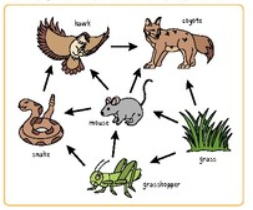
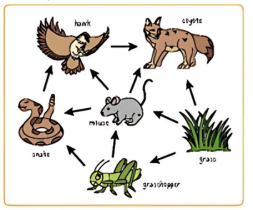
Update images in lessons and add worksheet links for Mendelian Genetics and Mitosis

diff --git a/src/pages/lessons/CellDivision/Lessons/CellDivision.jsx b/src/pages/lessons/CellDivision/Lessons/CellDivision.jsx
@@ -1,7 +1,7 @@
 import React, { useRef } from "react";
 import FloatingButton from "../../../../components/FloatingButton/FloatingButton.jsx";
 import { FaArrowRight } from "react-icons/fa";
-import cellCycle from "../../../../assets/images/cellCycle.png";
+import cellCycle from "../../../../assets/images/NewCellCycle.jpg";
 import stagesOfMitosis from "../../../../assets/pdf/stagesOfMitosis.pdf";
 import { MitosisWorksheetsLink } from "../ConstantMitosis.jsx";
 import Worksheets from "../../../../components/Worksheets/Worksheets.jsx";
@@ -86,7 +86,7 @@ const Module1 = ({ hideFloating }) => {
           <img
             src={cellCycle}
             alt="Digestion illustration"
-            className="w-full md:w-1/2 lg:w-1/3 h-auto object-contain rounded-lg shadow-md"
+            className="w-full md:w-1/2 lg:w-2/3 h-auto object-contain rounded-lg shadow-md"
           />
           <p className="text-sm sm:text-base md:text-lg text-center">
             <span className="font-semibold block mt-2">

diff --git a/src/pages/lessons/MitosisAndMiosis/MitosisAndMiosis.jsx b/src/pages/lessons/MitosisAndMiosis/MitosisAndMiosis.jsx
@@ -1,8 +1,8 @@
 import { React } from "react";
-import crossingOver from "../../../assets/images/crossingOver.png";
+import crossingOver from "../../../assets/images/crossingOver.jpg";
 import FloatingButton from "../../../components/FloatingButton/FloatingButton.jsx";
-import karyotype from "../../../assets/images/karyotype.png";
-import sexChromosomes from "../../../assets/images/sexChromosomes.png";
+import karyotype from "../../../assets/images/karyotype.jpg";
+import sexChromosomes from "../../../assets/images/sexChromosomes.jpg";
 import meiosisDivisions from "../../../assets/images/meiosisDivision.png";
 import prophaseStage from "../../../assets/images/prophaseStage.png";
 import roleMeiosis from "../../../assets/images/roleMeiosis.png";

diff --git a/src/pages/lessons/MendelianGenetics/ConstantData.jsx b/src/pages/lessons/MendelianGenetics/ConstantData.jsx
@@ -207,19 +207,19 @@ export const GenotypePhenotype = [
 export const MendelianGeneticsWorksheetsLink = {
   worksheet1: {
     title: "Mendelian Genetics Worksheets 1",
-    link: "#",
+    link: "https://forms.gle/42vrUKfegM35FGce9",
   },
   worksheet2: {
     title: "Mendelian Genetics Worksheets 2",
-    link: "#",
+    link: "https://forms.gle/o7zp9ReL82LUQUAi8",
   },
   worksheet3: {
     title: "Mendelian Genetics Worksheets 3",
-    link: "#",
+    link: "https://forms.gle/zzaw3EPAhoGqvdAD8",
   },
 
   evaluation: {
     title: "Written Evaluation Form",
-    link: "#",
+    link: "https://forms.gle/uNWvyQrbfAr45gXVA",
   },
 };

diff --git a/src/pages/lessons/Organism/Organism.jsx b/src/pages/lessons/Organism/Organism.jsx
@@ -9,7 +9,7 @@ import CarnivoresImage from "../../../assets/images/CarnivoresImage.png";
 import OmnivoresImage from "../../../assets/images/OmnivoresImage.jpg";
 import DecomposersImage from "../../../assets/images/DecomposersImage.jpg";
 import FoodChainImage from "../../../assets/images/FoodChainImage.jpg";
-import FoodWebImage from "../../../assets/images/FoodWebImage.png";
+import FoodWebImage from "../../../assets/images/FoodWebImage.jpg";
 import BiomassImage from "../../../assets/images/BiomassImage.jpg";
 import { OrganismWorksheetsLink } from "./ConstantData";
 import Worksheets from "../../../components/Worksheets/Worksheets";

diff --git a/src/pages/lessons/MitosisAndMiosis/ConstantData.jsx b/src/pages/lessons/MitosisAndMiosis/ConstantData.jsx
@@ -24,7 +24,7 @@ export const vocab = [
 export const MiosisWorksheetsLink = {
   worksheet1: {
     title: "Miosis Worksheets 1",
-    link: "#",
+    link: "https://forms.gle/Nce5fbLuZfBVPTij7",
   },
   worksheet2: {
     title: "Miosis Worksheets 2",
@@ -37,6 +37,6 @@ export const MiosisWorksheetsLink = {
 
   evaluation: {
     title: "Written Evaluation Form",
-    link: "#",
+    link: "https://forms.gle/g983B6tKtmvWaUkJ7",
   },
 };
